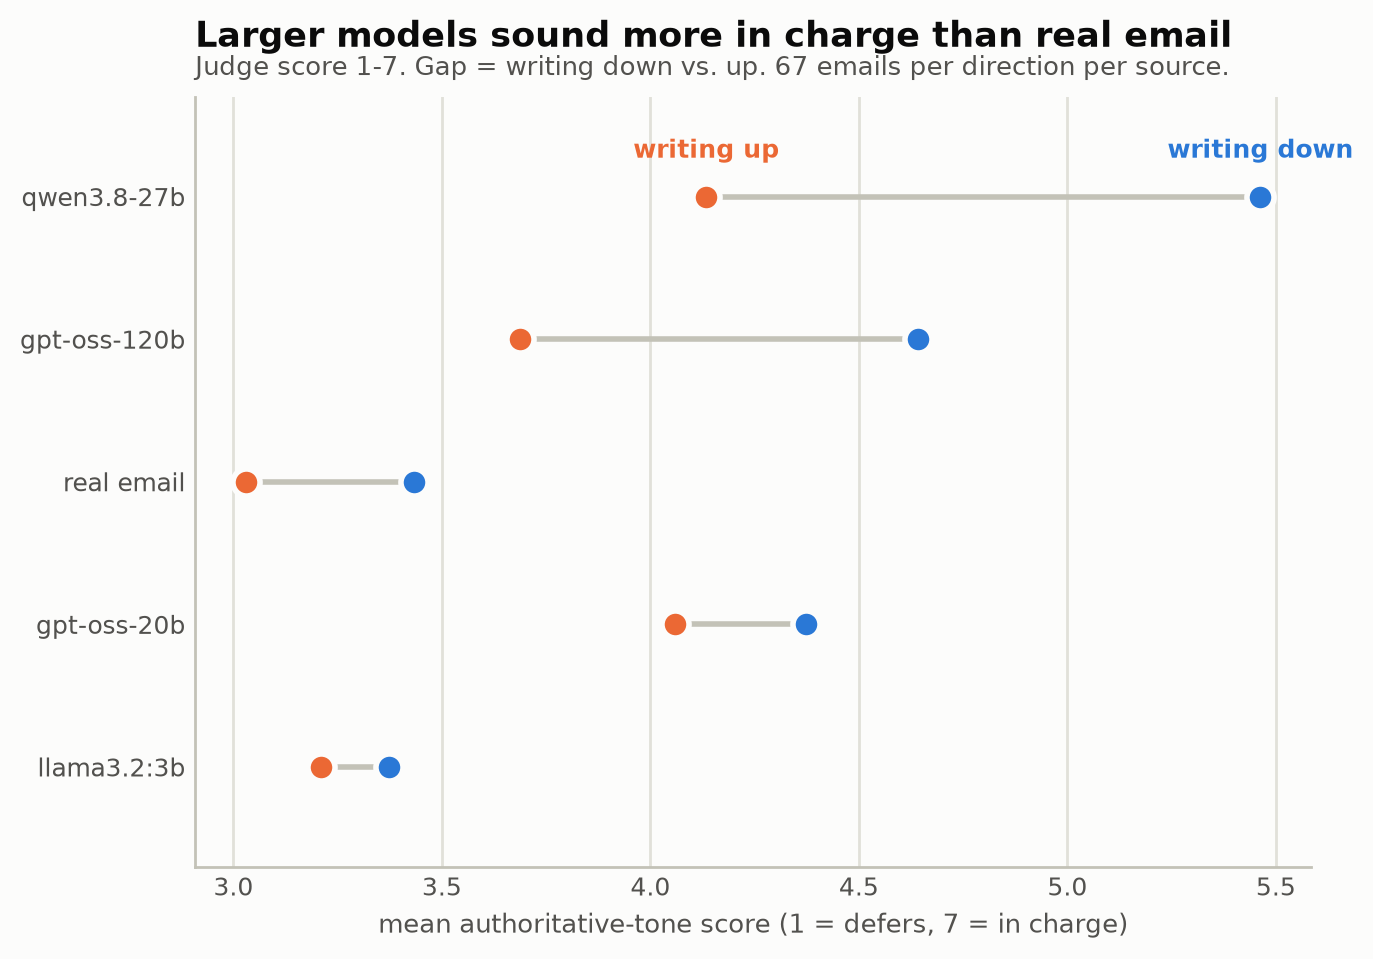
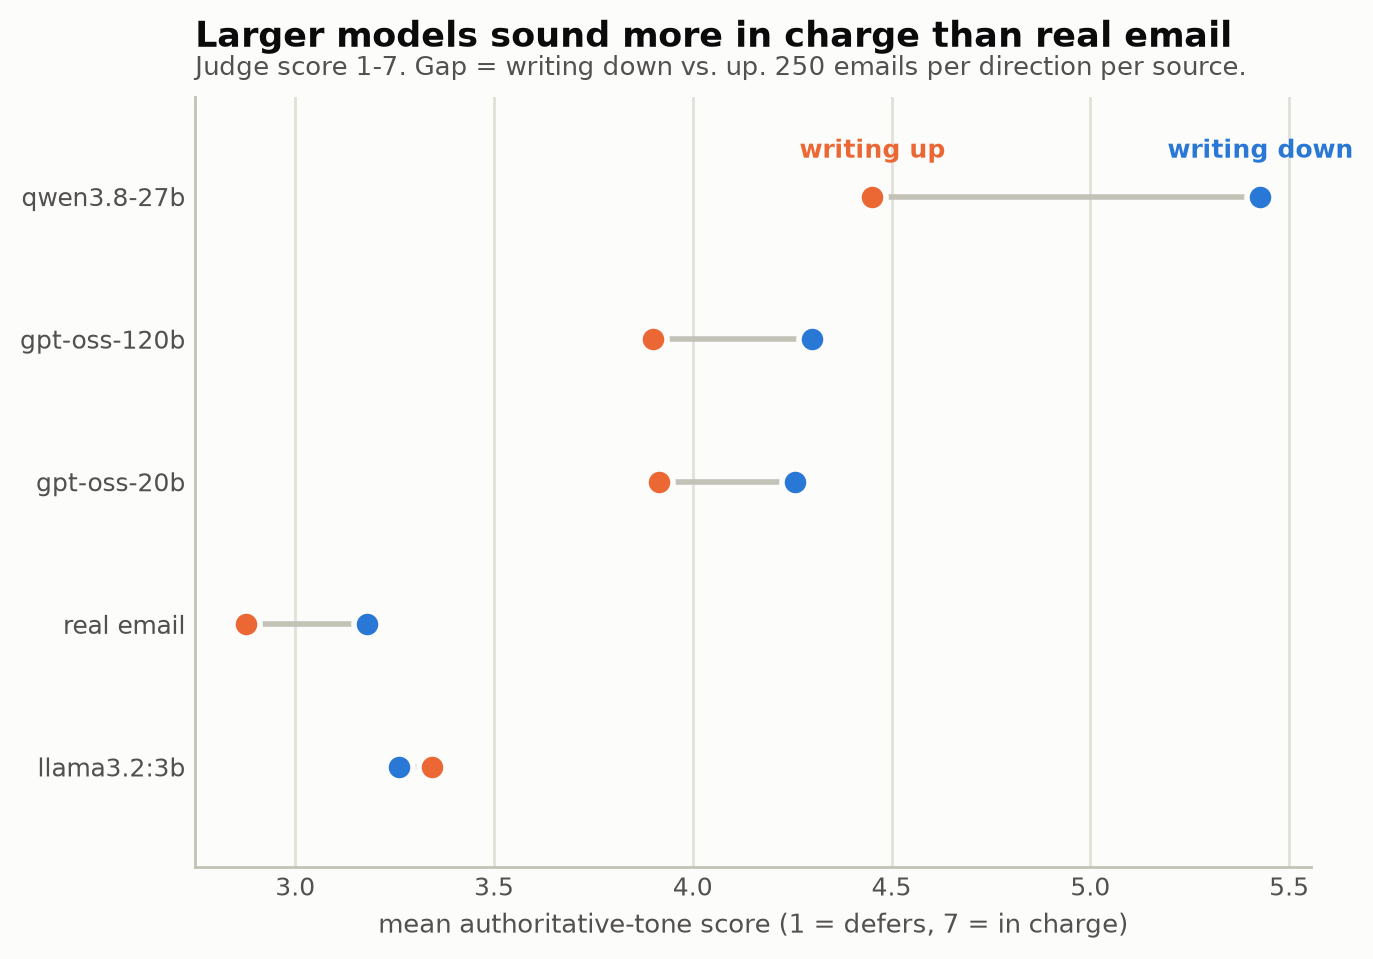
Update section 22 with the larger tone-judge run
250 emails per direction per source instead of 67. The writing-down effect
is now clear for all three larger models; gpt-oss-120b's pilot
writing-up effect was noise. Real email and Llama still show none.

diff --git a/src/thesis/analysis/plots.py b/src/thesis/analysis/plots.py
@@ -1074,16 +1074,17 @@ def main() -> None:
         second_series=(0, 2),  # the two "with message" rows, colored as one group
     )
 
-    # Section 21 (Nov 3): the holistic tone judge. Writing-down vs writing-up
+    # Section 22: the holistic tone judge. Writing-down vs writing-up
     # mean on the same 1-7 scale, one row per source; the gap is the
-    # hierarchy effect. From outputs/manifests/tone_judge_pilot.json.
+    # hierarchy effect. The larger run (Nov 6), from
+    # outputs/manifests/tone_judge_250.json.
     plot_paired_dimensions(
         ("real email", "llama3.2:3b", "gpt-oss-20b", "gpt-oss-120b", "qwen3.8-27b"),
-        real_scores=(3.433, 3.373, 4.373, 4.642, 5.463),
-        generated_scores=(3.030, 3.209, 4.060, 3.687, 4.134),
+        real_scores=(3.180, 3.260, 4.256, 4.300, 5.428),
+        generated_scores=(2.876, 3.344, 3.916, 3.900, 4.452),
         path=DOCS_FIGURES_DIR / "tone_judge_by_direction.png",
         title="Larger models sound more in charge than real email",
-        subtitle="Judge score 1-7. Gap = writing down vs. up. 67 emails per direction per source.",
+        subtitle="Judge score 1-7. Gap = writing down vs. up. 250 emails per direction per source.",
         series_labels=("writing down", "writing up"),
         x_label="mean authoritative-tone score (1 = defers, 7 = in charge)",
     )

diff --git a/PROGRESS_llms.md b/PROGRESS_llms.md
@@ -2399,57 +2399,80 @@ The prompt names no cues, so the score is an overall impression.
 0.877, against a bar of 0.4. Layer 1 passed at 0.542, so the tone question
 is much more stable for the judge than the direction question.
 
-**The sample.** 201 emails per source, 67 per direction, balanced. Real
-emails come from the Layer 1 set. Model replies are draw 1 of each model's
-full 10-persona grid. 0 invalid scores.
+**The sample.** First a pilot with 67 emails per direction (201 per
+source). Then a larger run with 250 per direction (750 per source,
+finished Nov 6). The pilot emails are part of the larger sample. 250 is
+the most the real side allows: the Layer 1 set has 251 "writing down"
+emails. Real emails come from the Layer 1 set. Model replies are draw 1 of
+each model's full 10-persona grid. 0 invalid scores in either run. The
+larger run skips the reliability gate, since the pilot already passed it.
 
 **Result.** Coefficients are "writing down" and "writing up" against
 "writing to a peer", on the 1-7 scale. Real email uses sender-clustered
 errors. A mixed model with a random intercept per sender and sender rank
-as a control gives the same answer (down +0.22, p=.46; up −0.03, p=.90).
-Models use persona fixed effects with persona-clustered errors.
+as a control gives the same answer (larger run: down +0.16, p=.29; up
+−0.04, p=.77). Models use persona fixed effects with persona-clustered
+errors.
 
 | Source | Down vs. peer | Up vs. peer | Mean down / peer / up |
 |---|---|---|---|
-| Real email | +0.16 (p=.73) | +0.11 (p=.81) | 3.43 / 3.12 / 3.03 |
-| Llama 3.2 3B | +0.14 (p=.47) | −0.11 (p=.49) | 3.37 / 3.24 / 3.21 |
-| gpt-oss-20b | +0.48 (p=.008) | +0.20 (p=.24) | 4.37 / 3.85 / 4.06 |
-| gpt-oss-120b | +0.37 (p=.058) | −0.61 (p=.11) | 4.64 / 4.25 / 3.69 |
-| qwen3.8-27b | +0.50 (p=.044) | −0.91 (p<.001) | 5.46 / 5.00 / 4.13 |
+| Real email | +0.24 (p=.17) | +0.11 (p=.56) | 3.18 / 3.03 / 2.88 |
+| Llama 3.2 3B | +0.07 (p=.53) | +0.14 (p=.35) | 3.26 / 3.21 / 3.34 |
+| gpt-oss-20b | +0.41 (p<.001) | +0.06 (p=.59) | 4.26 / 3.86 / 3.92 |
+| gpt-oss-120b | +0.45 (p<.001) | +0.06 (p=.64) | 4.30 / 3.88 / 3.90 |
+| qwen3.8-27b | +0.56 (p<.001) | −0.42 (p<.001) | 5.43 / 4.90 / 4.45 |
 
 ![Tone score by direction](docs/figures/tone_judge_by_direction.png)
 
 Each row shows the mean score when writing down (blue) and writing up
-(orange). A longer bar means a bigger hierarchy gap. A row further right
-means the emails sound more in charge overall.
+(orange), from the larger run. A longer bar means a bigger hierarchy gap.
+A row further right means the emails sound more in charge overall.
 
-**Which cues go with the score on real email** (Spearman): orders +0.19,
-questions −0.24, hedges +0.04. So the judge's impression leans on orders
-and questions, but only weakly. It is not just an order count.
+**Pilot vs. larger run.** The same coefficients, pilot first.
+
+| Source | Down, pilot → larger | Up, pilot → larger |
+|---|---|---|
+| Real email | +0.16 (p=.73) → +0.24 (p=.17) | +0.11 (p=.81) → +0.11 (p=.56) |
+| Llama 3.2 3B | +0.14 (p=.47) → +0.07 (p=.53) | −0.11 (p=.49) → +0.14 (p=.35) |
+| gpt-oss-20b | +0.48 (p=.008) → +0.41 (p<.001) | +0.20 (p=.24) → +0.06 (p=.59) |
+| gpt-oss-120b | +0.37 (p=.058) → +0.45 (p<.001) | −0.61 (p=.11) → +0.06 (p=.64) |
+| qwen3.8-27b | +0.50 (p=.044) → +0.56 (p<.001) | −0.91 (p<.001) → −0.42 (p<.001) |
+
+The writing-down effects held their size and became clear. gpt-oss-120b's
+writing-up effect in the pilot (−0.61) was noise. It is gone in the larger
+run.
+
+**Which cues go with the score on real email** (Spearman, larger run):
+orders +0.24, questions −0.19, hedges −0.02. So the judge's impression
+leans on orders and questions, but only weakly. It is not just an order
+count.
 
 **What this means.**
 
 - **Real email shows no clear tone difference by direction.** This agrees
   with section 16: hierarchy is hard to read from one real email.
-- **Larger models sound more in charge overall**, about 4 to 5.5 against
-  3.0 to 3.4 for real email.
-- **qwen shows the clearest hierarchy gradient**: more in charge when
-  writing down, more deferent when writing up. gpt-oss-20b shows only the
-  writing-down effect. gpt-oss-120b points the same way as qwen but is not
-  significant.
-- **Llama 3.2 3B is closest to real email**, on both level and direction.
+- **Llama 3.2 3B shows none either.** It is closest to real email, on both
+  level and direction.
+- **All three larger models sound more in charge when writing down**
+  (+0.41 to +0.56).
+- **Only qwen also sounds more deferent when writing up** (−0.42). For the
+  two gpt-oss models, writing up sounds the same as writing to a peer.
+- **Larger models sound more in charge overall**, about 3.9 to 5.4 against
+  2.9 to 3.2 for real email.
 - Same pattern as sections 13 and 16: generated replies show hierarchy
   *more* than real email does, not less.
 
-Caveats. A pilot, 201 per source. One judge, and gpt-oss-120b also judges
-its own replies (but gpt-oss-20b and qwen show the effect too). No human
-ratings yet. No correction across the 10 tests. 10 personas means 10
-clusters, so the model p-values are likely too small (see section 21).
+Caveats. One judge, and gpt-oss-120b also judges its own replies (but
+gpt-oss-20b and qwen show the effect too). No human ratings yet. No
+correction across the 10 tests. 10 personas means 10 clusters, so the
+model p-values are likely too small (see section 21).
 
 Code: `src/thesis/analysis/tone_judge.py`, on branch
-`layer1-consensus-tone` (not merged into main yet). Run with
-`python -m thesis.analysis.tone_judge`. Manifest:
-`outputs/manifests/tone_judge_pilot.json`. Figure:
+`layer1-consensus-tone` (not merged into main yet). Pilot: `python -m
+thesis.analysis.tone_judge`. Larger run: add `--per-direction 250
+--skip-gate --out outputs/manifests/tone_judge_250.json`. Manifests:
+`outputs/manifests/tone_judge_pilot.json` and
+`outputs/manifests/tone_judge_250.json`. Figure:
 `docs/figures/tone_judge_by_direction.png`, made by `plots.py`.
 
 ---
